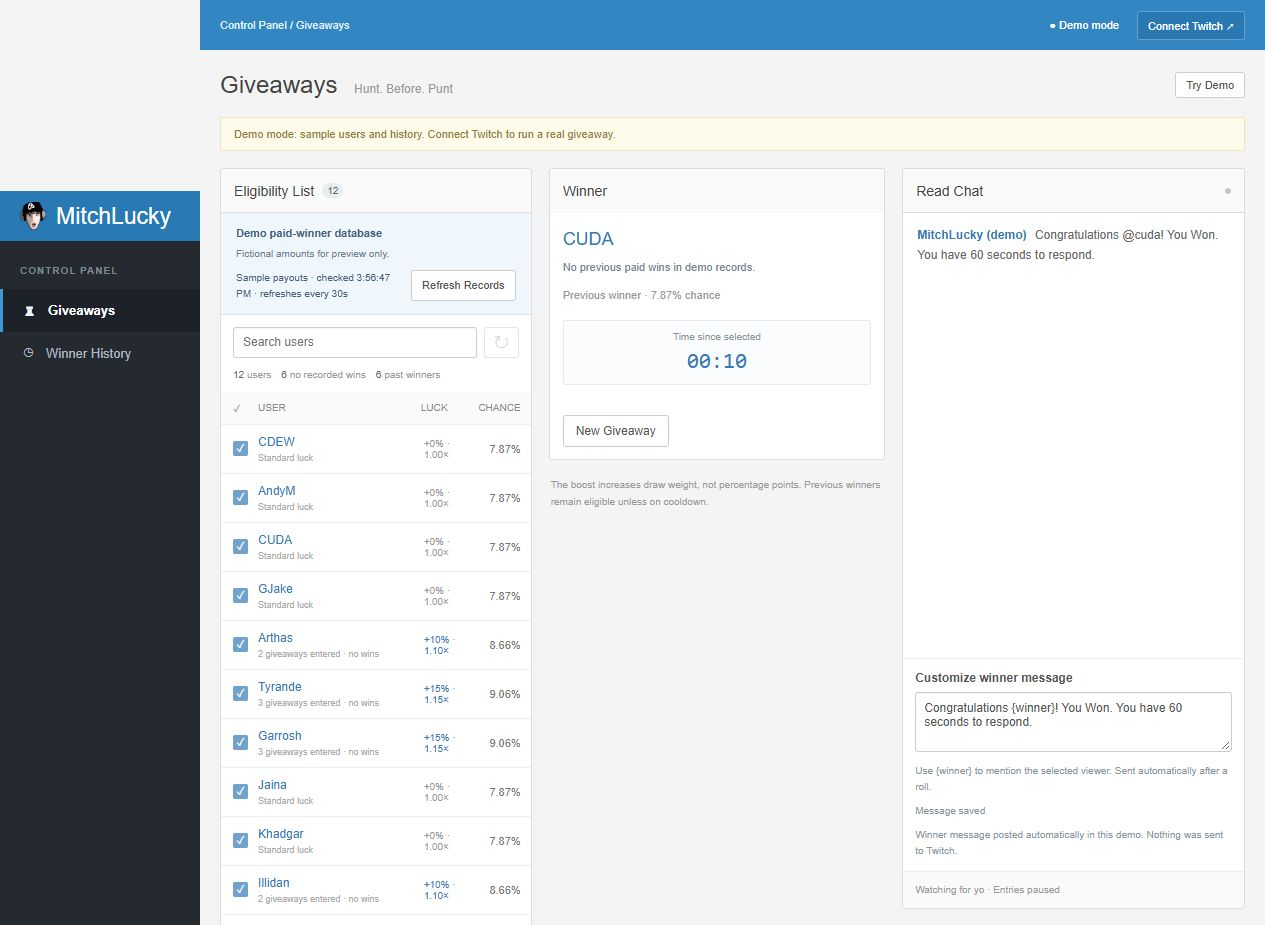
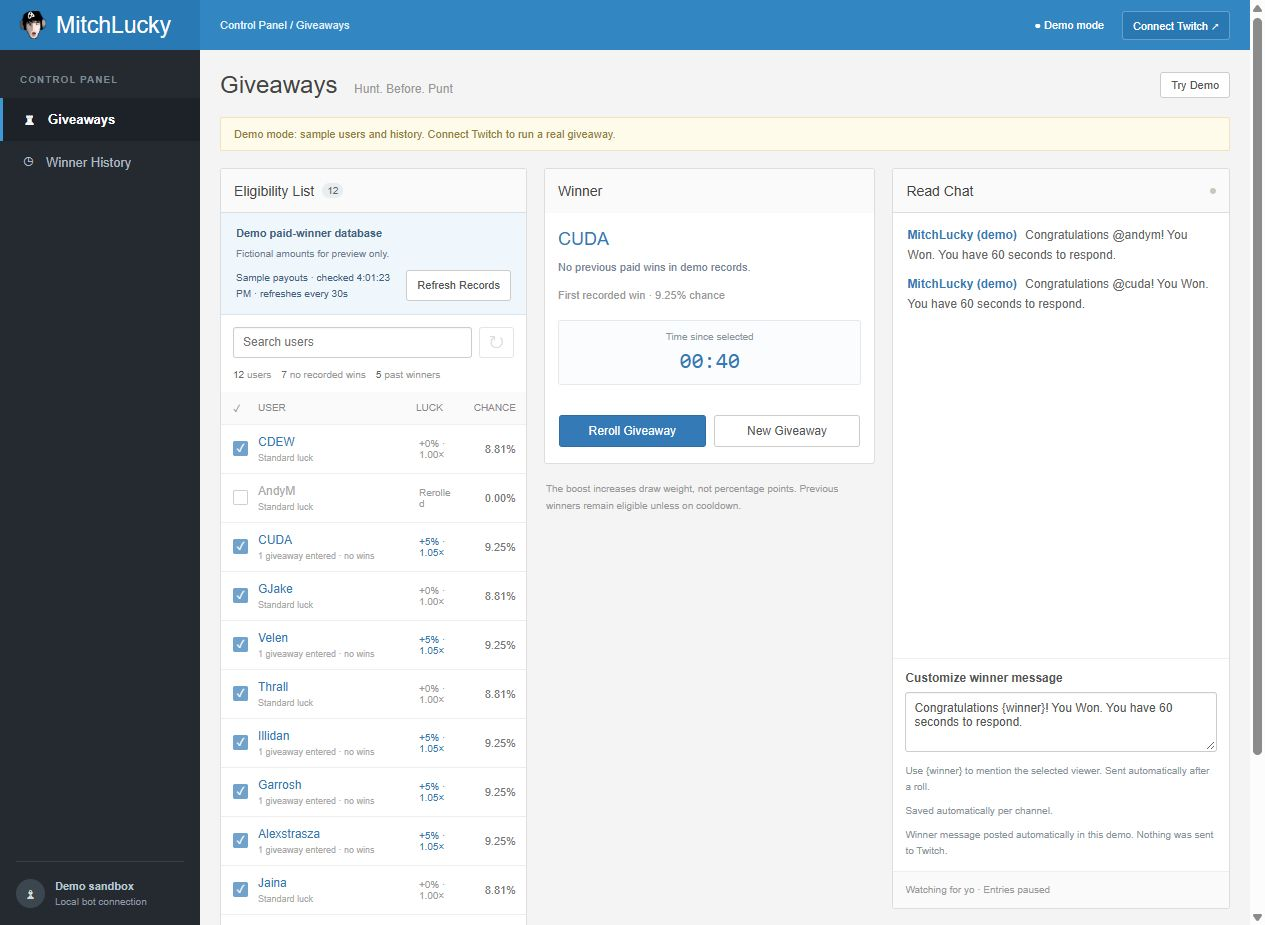
Reroll winners from the existing giveaway pool

diff --git a/public/app.js b/public/app.js
@@ -69,7 +69,10 @@ function render(next) {
   $('close').hidden = round.status !== 'open'; $('draw').hidden = !['open', 'closed'].includes(round.status); $('draw').disabled = rolling || !round.entrants.some(e => e.weight > 0);
   $('new').hidden = !['drawn', 'closed'].includes(round.status);
   document.querySelector('.giveaway-card').hidden = round.status === 'drawn';
-  (round.status === 'drawn' ? document.querySelector('.winner-card') : document.querySelector('.giveaway-actions')).appendChild($('new'));
+  (round.status === 'drawn' ? $('winner-actions') : document.querySelector('.giveaway-actions')).appendChild($('new'));
+  $('reroll').hidden = round.status !== 'drawn';
+  $('reroll').disabled = rolling || !round.entrants.some(e => e.weight > 0 && e.login !== round.winner?.login && !(e.userId && e.userId === round.winner?.userId));
+  $('reroll').title = $('reroll').disabled ? 'No other eligible entrants remain, or a roll is in progress.' : 'Choose another winner from this entry pool.';
   $('entry-count').textContent = round.entrants.length;
   $('payout-source').hidden = !demo;
   $('payout-status').textContent = demo ? 'Sample payouts · checked ' + new Date(state.payouts.checkedAt).toLocaleTimeString() + ' · refreshes every 30s' : '';
@@ -90,7 +93,7 @@ function render(next) {
   if ($('reset-eligibility')) $('reset-eligibility').disabled = !['open', 'closed'].includes(round.status);
   $('history-count').textContent = history.length;
   $('history-empty').hidden = history.length > 0;
-  $('history-rows').innerHTML = [...history].reverse().slice(0, 100).map(h => `<tr><td class="viewer">${escapeHtml(h.displayName)}</td><td>${escapeHtml(h.title)}</td><td>${escapeHtml(new Date(h.at).toLocaleString([], { month: 'short', day: 'numeric', hour: 'numeric', minute: '2-digit' }))}</td><td><span class="weight ${h.imported || !h.firstWin ? 'normal' : ''}">${h.imported ? 'Imported winner' : h.firstWin ? '✧ First win' : 'Returning winner'}</span></td></tr>`).join('');
+  $('history-rows').innerHTML = [...history].reverse().slice(0, 100).map(h => `<tr><td class="viewer">${escapeHtml(h.displayName)}</td><td>${escapeHtml(h.title)}</td><td>${escapeHtml(new Date(h.at).toLocaleString([], { month: 'short', day: 'numeric', hour: 'numeric', minute: '2-digit' }))}</td><td><span class="weight ${h.rerolled || h.imported || !h.firstWin ? 'normal' : ''}">${h.rerolled ? 'Rerolled' : h.imported ? 'Imported winner' : h.firstWin ? '✧ First win' : 'Returning winner'}</span></td></tr>`).join('');
   window.renderGiveawayUI?.(state);
 }
 function renderEntrants() {
@@ -101,7 +104,7 @@ function renderEntrants() {
   const total = preview.reduce((sum, e) => sum + e.weight, 0);
   const entrants = preview.map(e => ({ ...e, odds: total ? e.weight / total : 0 })).filter(e => `${e.login} ${e.displayName}`.toLowerCase().includes(query));
   $('empty').hidden = state.round.entrants.length > 0;
-  $('entrants').innerHTML = entrants.slice(0, 500).map(e => `<tr class="${e.blocked ? 'ineligible' : ''}"><td><button class="eligibility-check ${e.blocked ? '' : 'checked'}" data-remove="${escapeHtml(e.login)}" ${['open', 'closed'].includes(state.round.status) ? '' : 'disabled'} aria-label="${e.excluded ? 'Include' : 'Exclude'} ${escapeHtml(e.login)}" aria-pressed="${!e.blocked}">${e.blocked ? '' : '✓'}</button></td><td class="viewer" title="${e.wins ? 'Standard luck' : 'No recorded wins'}">${escapeHtml(e.displayName)}<small>${e.wins ? 'Standard luck' : `${e.luckEntries || 1} giveaway${e.luckEntries === 1 || !e.luckEntries ? '' : 's'} entered · no wins`}</small></td><td><span class="weight ${e.wins || e.blocked ? 'normal' : ''}" title="${e.wins ? 'Previous winner: standard weight' : `+5% per giveaway entered, capped at +${cap}%`}">${e.blocked ? escapeHtml(e.reason) : `+${e.bonus}% · ${(e.weight / 100).toFixed(2)}×`}</span></td><td>${pct(e.odds)}</td></tr>`).join('');
+  $('entrants').innerHTML = entrants.slice(0, 500).map(e => `<tr class="${e.blocked ? 'ineligible' : ''}"><td><button class="eligibility-check ${e.blocked ? '' : 'checked'}" data-remove="${escapeHtml(e.login)}" ${['open', 'closed'].includes(state.round.status) ? '' : 'disabled'} aria-label="${e.excluded ? 'Include' : 'Exclude'} ${escapeHtml(e.login)}" aria-pressed="${!e.blocked}">${e.blocked ? '' : '✓'}</button></td><td class="viewer" title="${e.wins ? 'Standard luck' : 'No recorded wins'}">${escapeHtml(e.displayName)}<small>${e.wins ? 'Standard luck' : `${e.luckEntries || 1} giveaway${e.luckEntries === 1 || !e.luckEntries ? '' : 's'} entered · no wins`}</small></td><td><span class="weight ${e.wins || e.blocked ? 'normal' : ''}" title="${e.wins ? 'Previous winner: standard weight' : `+5% per giveaway entered, capped at +${cap}%`}">${e.blocked ? escapeHtml(e.reason === 'Previously selected' ? 'Rerolled' : e.reason) : `+${e.bonus}% · ${(e.weight / 100).toFixed(2)}×`}</span></td><td>${pct(e.odds)}</td></tr>`).join('');
   $('pool-footer').textContent = `${entrants.length > 500 ? `Showing 500 of ${entrants.length} matching viewers. ` : ''}Exact chances update as viewers join. ${state.round.entrants.filter(e => e.blocked).length} ineligible.`;
 }
 for (const key of ['title', 'keyword', 'cooldownMinutes']) $(key).addEventListener('input', () => { dirty = true; document.querySelector('.keyword-row p').textContent = `Type ${$('keyword').value} in chat to enter. Not case-sensitive.`; });
@@ -129,7 +132,13 @@ $('draw').onclick = async () => {
   const ok = await api('draw', { roundId: state.round.id, boost: Number($('boost').value), winnerMessageTemplate: $('winner-message').value });
   if (ok) { templateDirty = false; clearTimeout(messageSaveTimer); $('message-save-status').textContent = 'Message saved'; }
   rolling = false;
-  if (!ok) render(state);
+  render(state);
+};
+$('reroll').onclick = async () => {
+  if (rolling || !state.round.winner) return;
+  rolling = true; $('reroll').disabled = true;
+  await api('reroll', { roundId: state.round.id, winnerId: state.round.winner.id, winnerMessageTemplate: $('winner-message').value });
+  rolling = false; render(state);
 };
 $('new').onclick = () => { if (state.round.entrants.length && !state.round.winner && !confirm('Clear this entry pool and start a new giveaway?')) return; api('new'); };
 $('demo').onclick = () => { if (state?.round.entrants.length && !confirm('Switch to the demo sandbox? This clears the current entry pool. Winner history is preserved.')) return; api('demo'); };

diff --git a/public/index.html b/public/index.html
@@ -7,7 +7,7 @@
 <div class="dashboard-grid">
 <section class="card entrants-card"><div class="card-header"><h2>Eligibility List <span id="entry-count" class="count">0</span></h2></div><div id="payout-source" class="payout-source" hidden><strong>Demo paid-winner database</strong><p>Fictional amounts for preview only.</p><div class="payout-source-actions"><span id="payout-status" role="status"></span><button id="payout-refresh" class="button secondary small" type="button">Refresh Records</button></div></div><div class="eligibility-toolbar"><input id="search" placeholder="Search users" aria-label="Search viewers" class="search"></div><div class="pool-summary"><span><strong id="stat-total">0</strong> users</span><span><strong id="stat-new">0</strong> no recorded wins</span><span><strong id="stat-returning">0</strong> past winners</span><span id="stat-new-caption" hidden></span></div><div class="table-scroll"><table><thead><tr><th aria-label="Eligible">✓</th><th>USER</th><th>LUCK</th><th>CHANCE</th></tr></thead><tbody id="entrants"></tbody></table></div><div id="empty" class="empty"><strong>No eligible users</strong><p>Open entries to start collecting viewers.</p></div><div id="pool-footer" class="card-footer">One entry per user.</div></section>
 <div class="giveaway-column"><section class="card giveaway-card"><div class="card-header"><h2>Giveaway</h2><span id="round-status" class="pill">Ready to start</span></div><form id="settings"><label class="giveaway-name">Giveaway Name<input id="title" maxlength="100" value="Community giveaway" required></label><div class="keyword-row"><label>Keyword<input id="keyword" maxlength="30" value="yo" required></label><p>Type yo, YO, or Yo to enter. Matching ignores capitalization.</p></div><div class="luck-panel"><h3>Extra Luck</h3><div class="luck-heading"><div><strong>First-win luck cap</strong><p>+5% per giveaway entered until their first win.</p></div><span id="boost-badge" class="boost-badge">+25%</span></div><div class="range-row"><input id="boost" type="range" min="0" max="50" step="5" value="25" aria-label="First-win luck cap"><span id="boost-value">1.25×</span></div><div class="range-labels"><span>1×</span><span>1.5×</span></div><p id="luck-status" class="luck-status" role="status">Adjust anytime — luck applies automatically.</p><p class="tracking-note">Entries and wins are remembered across giveaways and restarts. Reopening entries adds no bonus.</p><p class="explanation" id="weight-explanation">Never-winners earn +5% draw weight per giveaway entered, capped at +25%.</p></div><details class="cooldown-options"><summary>Optional winner cooldown</summary><div class="cooldown-row"><div><strong>Winner Cooldown</strong><small>Exclude anyone who won within</small></div><select id="cooldownMinutes" aria-label="Winner cooldown time frame"><option value="0">Disabled</option><option value="15">15 minutes</option><option value="30">30 minutes</option><option value="60">1 hour</option><option value="360">6 hours</option><option value="1440">24 hours</option><option value="4320">3 days</option><option value="10080">7 days</option><option value="43200">30 days</option></select></div></details><div class="giveaway-actions"><button type="submit" id="save-settings" class="button secondary">Save</button><button type="button" id="open" class="button primary">Open Entries</button><button type="button" id="close" class="button secondary" hidden>Close Entries</button><button type="button" id="draw" class="button primary" hidden>Roll It!</button><button type="button" id="new" class="button secondary" hidden>New Giveaway</button></div></form><div class="card-footer">One increase per giveaway entered. Repeated messages add no luck. Viewers: type !luck in chat (Read + Write required).</div></section>
-<section class="card winner-card"><div class="card-header"><h2>Winner</h2></div><div id="winner" class="winner-body"><p>No winner selected.</p></div></section><p class="fair-note">The boost increases draw weight, not percentage points. Previous winners remain eligible unless on cooldown.</p></div>
+<section class="card winner-card"><div class="card-header"><h2>Winner</h2></div><div id="winner" class="winner-body"><p>No winner selected.</p></div><div id="winner-actions" class="winner-actions"><button id="reroll" type="button" class="button primary" hidden>Reroll Giveaway</button></div></section><p class="fair-note">The boost increases draw weight, not percentage points. Previous winners remain eligible unless on cooldown.</p></div>
 <section class="card chat-card"><div class="card-header"><h2>Read Chat</h2><span id="chat-dot" class="chat-dot"></span></div><div id="chat" class="chat-feed"><div class="chat-empty">Connect your Twitch channel to view chat.</div></div><section class="chat-composer"><label for="winner-message">Customize winner message</label><textarea id="winner-message" rows="3" maxlength="425" aria-label="Customize winner message">Congratulations {winner}! You Won. You have 60 seconds to respond.</textarea><p class="help">Use {winner} to mention the selected viewer. Sent automatically after a roll.</p><p id="message-save-status" class="help" role="status">Saved automatically per channel.</p><p id="announcement-delivery" class="help" role="status"></p></section><div class="card-footer" id="chat-footer">Watching for yo</div></section>
 </div>
 <section id="history" class="card history-card" hidden><div class="card-header"><h2>Winner History <span id="history-count" class="count">0</span></h2><button id="export" class="button secondary small">Export History</button></div><div class="table-scroll"><table><thead><tr><th>WINNER</th><th>GIVEAWAY</th><th>WHEN</th><th>RESULT</th></tr></thead><tbody id="history-rows"></tbody></table></div><div id="history-empty" class="empty compact">No winners yet. Every draw saves its winner automatically.</div></section>

diff --git a/engine.js b/engine.js
@@ -53,6 +53,9 @@ function luckReply(round, history, ledger, message, paidWinners = []) {
   return `@${message.login} ${view.luckEntries || 1} giveaway(s) entered with no recorded wins: +${view.bonus}% draw weight (${(1 + view.bonus / 100).toFixed(2)}x; cap +${round.boost}%). Current chance: ${total ? (view.weight / total * 100).toFixed(4) : '0.0000'}%. Once per giveaway; repeating the keyword adds nothing.`;
 }
 function pool(round, history, now = Date.now(), paidWinners = []) {
+  history = history.filter(h => !h.rerolled);
+  const previousNames = new Set((round.previousSelections || []).map(w => w.login));
+  const previousIds = new Set((round.previousSelections || []).map(w => w.userId).filter(Boolean));
   const paidByLogin = new Map(paidWinners.map(w => [w.login, w]));
   const cutoff = now - round.cooldownMinutes * 60000;
   const recentDraws = round.cooldownMinutes > 0 ? history.filter(h => !h.imported && Date.parse(h.at) > cutoff && Date.parse(h.at) <= now) : [];
@@ -73,9 +76,10 @@ function pool(round, history, now = Date.now(), paidWinners = []) {
     const wins = Math.max(localWins, paidWinner?.winCount || 0);
     const coolingDown = round.cooldownMinutes > 0 && (recent.has(e.login) || (e.userId && recentIds.has(e.userId)));
     const inactive = round.mode === 'active' && Date.parse(e.lastActiveAt || e.joinedAt) < (round.closedAt ? Date.parse(round.closedAt) : now) - round.activeMinutes * 60000;
-    const blocked = Boolean(e.excluded || coolingDown || inactive);
+    const previouslySelected = previousNames.has(e.login) || (e.userId && previousIds.has(e.userId));
+    const blocked = Boolean(e.excluded || previouslySelected || coolingDown || inactive);
     const bonus = wins ? 0 : luckBonus(e.luckEntries, round.boost);
-    return { ...e, wins, paidWinner, bonus, blocked, reason: e.excluded ? 'Excluded' : coolingDown ? 'Cooldown' : inactive ? 'Inactive' : '', weight: blocked ? 0 : 100 + bonus };
+    return { ...e, wins, paidWinner, bonus, blocked, reason: e.excluded ? 'Excluded' : previouslySelected ? 'Previously selected' : coolingDown ? 'Cooldown' : inactive ? 'Inactive' : '', weight: blocked ? 0 : 100 + bonus };
   });
 }
 function enter(round, login, displayName = login, userId = null, ledger = null) {
@@ -103,10 +107,24 @@ function draw(round, history, rng = randomInt, boost = round.boost, paidWinners 
   round.status = 'drawn';
   return winner;
 }
+function reroll(round, history, rng = randomInt, paidWinners = []) {
+  if (round.status !== 'drawn' || !round.winner) throw new Error('Select a winner before rerolling.');
+  const previous = round.winner;
+  const next = { ...round, status: 'closed', winner: null, previousSelections: [...(round.previousSelections || []), { login: previous.login, userId: previous.userId }] };
+  // Work on a copy so an exhausted pool leaves the current winner intact.
+  const activeHistory = history.filter(h => !h.rerolled && h.id !== previous.id);
+  const winner = draw(next, activeHistory, rng, round.boost, paidWinners);
+  previous.rerolled = true;
+  const record = history.find(h => h.id === previous.id);
+  if (record) record.rerolled = true;
+  history.push(winner);
+  Object.assign(round, next);
+  return winner;
+}
 function parseChat(line) {
   const match = line.match(/^(?:@([^ ]+) )?:([^! ]+)!\S+ PRIVMSG #([^ ]+) :([\s\S]*)$/);
   if (!match) return null;
   const tags = Object.fromEntries((match[1] || '').split(';').map(t => { const i = t.indexOf('='); return [t.slice(0, i), t.slice(i + 1)]; }));
   return { login: normalize(match[2]), channel: normalize(match[3]), text: match[4], userId: tags['user-id'] || null, displayName: tags['display-name'] || match[2] };
 }
-module.exports = { normalize, validLogin, newRound, pool, enter, draw, parseChat, permitted, matchesKeyword, winnerAnnouncement, winnerMessageTemplate, DEFAULT_WINNER_MESSAGE, chatText, trackEntry, luckBonus, luckReply };
+module.exports = { normalize, validLogin, newRound, pool, enter, draw, reroll, parseChat, permitted, matchesKeyword, winnerAnnouncement, winnerMessageTemplate, DEFAULT_WINNER_MESSAGE, chatText, trackEntry, luckBonus, luckReply };

diff --git a/server.js b/server.js
@@ -4,7 +4,7 @@ const path = require('node:path');
 const { randomInt, randomUUID } = require('node:crypto');
 const { demoPaidWinnersResponse, readDemoPaidWinners } = require('./paid-winners');
 const { WebSocket } = require('ws');
-const { normalize, validLogin, newRound, pool, enter, draw, parseChat, permitted, matchesKeyword, winnerAnnouncement, winnerMessageTemplate, DEFAULT_WINNER_MESSAGE, chatText, trackEntry, luckReply } = require('./engine');
+const { normalize, validLogin, newRound, pool, enter, draw, reroll, parseChat, permitted, matchesKeyword, winnerAnnouncement, winnerMessageTemplate, DEFAULT_WINNER_MESSAGE, chatText, trackEntry, luckReply } = require('./engine');
 const port = Number(process.env.PORT || 38741);
 const dataDir = process.env.DATA_DIR || path.join(__dirname, 'data');
 fs.mkdirSync(dataDir, { recursive: true });
@@ -47,6 +47,7 @@ function drainAnnouncements() {
   announcementTimer = null;
   while (announcementQueue.length) {
     const { winner, channel } = announcementQueue[0], delivery = winner.announcement;
+    if (delivery.status !== 'pending') { announcementQueue.shift(); continue; }
     if (channel !== state.channel || !canWriteChat()) {
       Object.assign(delivery, { status: 'not-sent', reason: channel !== state.channel ? 'The channel changed before sending.' : 'Read + Write Chat must be connected to announce winners automatically.' });
     } else {
@@ -206,12 +207,15 @@ async function action(route, body) {
     delete round.closedAt;
   } else if (route === 'close') {
     if (round.status !== 'open') throw new Error('Entries are not open.'); round.status = 'closed'; round.closedAt = new Date().toISOString();
-  } else if (route === 'draw') {
+  } else if (route === 'draw' || route === 'reroll') {
     if (body.roundId && body.roundId !== round.id) throw new Error('The giveaway changed. Review the current entry pool before rolling.');
+    if (route === 'reroll' && (body.roundId !== round.id || !round.winner || body.winnerId !== round.winner.id)) throw new Error('The selected winner changed. Review the current winner before rerolling.');
     const template = winnerMessageTemplate(body.winnerMessageTemplate === undefined ? messageTemplate() : body.winnerMessageTemplate);
     // Validate the longest allowed login before selecting, including repeated placeholders.
     winnerAnnouncement({ login: 'a'.repeat(25) }, template);
-    const winner = draw(round, history(), undefined, body.boost === undefined ? round.boost : Number(body.boost), paidWinners());
+    const previous = round.winner;
+    const winner = route === 'reroll' ? reroll(round, history(), undefined, paidWinners()) : draw(round, history(), undefined, body.boost === undefined ? round.boost : Number(body.boost), paidWinners());
+    if (route === 'reroll' && previous?.announcement?.status === 'pending') Object.assign(previous.announcement, { status: 'not-sent', reason: 'Rerolled before the announcement was sent.' });
     state.winnerMessages[state.channel] = template;
     winner.announcement = { status: 'pending', message: winnerAnnouncement(winner, template) };
     // Save the winner and delivery intent before allowing the send to run.

diff --git a/test/reroll.test.js b/test/reroll.test.js
@@ -1,0 +1,36 @@
+const { test } = require('node:test');
+const assert = require('node:assert/strict');
+const { newRound, enter, draw, reroll, pool } = require('../engine');
+
+test('rerolls keep the pool and luck progress, exclude every previous selection, and retain an audit history', () => {
+  const round = newRound(), ledger = {}, history = []; round.status = 'open';
+  for (const [i, name] of ['first', 'second', 'third'].entries()) enter(round, name, name, String(i + 1), ledger);
+  const id = round.id, entrants = JSON.stringify(round.entrants);
+  const first = draw(round, history, () => 0), closedAt = round.closedAt;
+  const second = reroll(round, history, () => 0);
+  assert.equal(second.login, 'second'); assert.notEqual(second.id, first.id);
+  assert.equal(first.rerolled, true); assert.equal(round.id, id); assert.equal(round.closedAt, closedAt);
+  assert.equal(JSON.stringify(round.entrants), entrants); assert.equal(ledger['id:1'].count, 1);
+  assert.equal(round.status, 'drawn'); assert.equal(enter(round, 'late'), false);
+  assert.equal(pool(round, history)[0].reason, 'Previously selected');
+  const third = reroll(round, history, () => 0); assert.equal(third.login, 'third');
+  const before = JSON.stringify({ round, history });
+  assert.throws(() => reroll(round, history), /No eligible/);
+  assert.equal(JSON.stringify({ round, history }), before);
+  const next = newRound(); next.status = 'open'; enter(next, 'first', 'first', '1', ledger);
+  assert.equal(pool(next, history)[0].wins, 0); assert.equal(pool(next, history)[0].weight, 110);
+});
+
+test('reroll honors identity exclusions, manual exclusions, and the original activity cutoff', () => {
+  const round = newRound(), history = []; round.status = 'open';
+  for (const [i, name] of ['first', 'second', 'third'].entries()) enter(round, name, name, String(i + 1));
+  round.mode = 'active'; round.activeMinutes = 5;
+  round.entrants[2].excluded = true;
+  draw(round, history, () => 0);
+  round.entrants[0].login = 'renamed';
+  // The second viewer was active at the initial cutoff but not at the reroll time.
+  round.entrants[1].lastActiveAt = new Date(Date.parse(round.closedAt) - 299999).toISOString();
+  assert.equal(reroll(round, history, () => 0).login, 'second');
+  assert.throws(() => reroll(round, history), /No eligible/);
+  const fresh = newRound(); assert.throws(() => reroll(fresh, []), /Select a winner/);
+});

diff --git a/test/announcements.test.js b/test/announcements.test.js
@@ -43,6 +43,16 @@ test('announcements send automatically once, respect rate limits, persist settin
   await post('demo'); await post('draw'); s = await delivered();
   assert.equal(s.round.winner.announcement.status, 'demo'); assert.equal(s.chat.length, 1);
   assert.equal(s.chat[0].text, `GG @${s.round.winner.login}! You won.`);
+  const previousWinner = s.round.winner, roundId = s.round.id;
+  const progress = s.round.entrants.map(e => e.luckEntries);
+  const rerolled = await post('reroll', { roundId, winnerId: previousWinner.id });
+  assert.equal(rerolled.status, 200); assert.equal(rerolled.body.round.id, roundId);
+  assert.notEqual(rerolled.body.round.winner.login, previousWinner.login);
+  assert.deepEqual(rerolled.body.round.entrants.map(e => e.luckEntries), progress);
+  assert.equal(rerolled.body.history.find(w => w.id === previousWinner.id).rerolled, true);
+  assert.equal((await post('reroll', { roundId, winnerId: previousWinner.id })).status, 400);
+  s = await delivered(); assert.equal(s.chat.length, 2);
+  assert.equal(s.chat.at(-1).text, `GG @${s.round.winner.login}! You won.`);
   const sentAt = s.round.winner.announcement.sentAt;
   await stop(); await start(); s = await snapshot();
   assert.equal(s.winnerMessageTemplate, 'GG {winner}! You won.');

diff --git a/public/giveaway.css b/public/giveaway.css
@@ -9,6 +9,8 @@
 .winner-body .paid-winner-tag{font-size:12px;margin:5px 0 4px;padding:4px 8px}
 .winner-body .paid-winner-total{display:block;font-size:13px;color:#855600;line-height:1.8;margin-bottom:10px}
 .winner-body .paid-winner-empty{font-size:11px;color:#738596;margin:8px 0}
+.winner-actions{display:flex;gap:8px;flex-wrap:wrap;padding:0 14px 16px}
+.winner-actions .button{flex:1;white-space:nowrap}
 .payout-source{padding:12px 15px;background:#f0f7fc;border-bottom:1px solid #d9e6ef;font-size:11px;color:#41627c;line-height:1.6}
 .payout-source p{margin:3px 0 8px;font-size:10px;color:#6c8091}
 .payout-source-actions{display:flex;gap:8px;align-items:center;justify-content:space-between;flex-wrap:wrap}

diff --git a/README.md b/README.md
@@ -14,6 +14,7 @@ A local Twitch giveaway dashboard inspired by Nightbot, with a gradual, capped l
 | One entry per viewer | Repeated messages add neither entries nor luck. Twitch user IDs prevent duplicate entries under renamed accounts when available. |
 | Gradual first-win luck | Never-winners earn +5% draw weight per giveaway they enter, capped at +25% by default. |
 | Live luck slider | Adjust the maximum bonus from 0% to 50% while entries are open or paused. Chances preview while dragging; the cap saves on release. |
+| Reroll without resetting | Select another winner from the same entry pool, skipping viewers already selected in that giveaway. |
 | Direct winner selection | Click **Roll It!** while entries are open. One action stops entries and selects a winner using the displayed cap. |
 | Eligibility controls | Everyone, Subscribers + Mods, Moderators, or Broadcaster. Exclude individual viewers or reset eligibility. |
 | Active User mode | Collect viewers who chat during a configurable 1–60 minute activity window. |
@@ -104,7 +105,7 @@ Draws use Node's cryptographically secure random generator. Participation progre
 2. Choose **Read Chat Only** or **Read + Write Chat**.
 3. For authenticated access, provide a Twitch user OAuth token with `chat:read`. Writing also requires `chat:edit` and explicitly selecting Read + Write Chat.
 4. Save giveaway rules, open entries, and let viewers enter. Click **Roll It!** when ready; closing first is optional.
-5. Use **New Giveaway** for another draw. Other entry rules stay locked once entries open; the luck cap remains adjustable.
+5. Use **Reroll Giveaway** to pick someone else from the same pool, or **New Giveaway** to collect fresh entries. Other entry rules stay locked once entries open; the luck cap remains adjustable.
 
 Tokens are validated with Twitch, kept in server memory, and never saved. Anonymous read-only IRC is supported but may be restricted by Twitch. Authenticated live Twitch behavior still needs verification with your user token.
 
@@ -116,7 +117,7 @@ Announcements respect the chat send rate limit and are sent once per selection. 
 
 With writing enabled, viewers can type `!luck` to check their participation, weight bonus, and current odds without entering the giveaway. Replies share the chat send rate limit; winner announcements take priority and rapid luck requests may not all receive replies. `!luck` is reserved for this command.
 
-The timer starts when a winner is selected, continues across reloads and restarts, and never resets because someone speaks. There is no automatic timeout or reroll. A completed draw cannot be rolled again. Once a winner is shown, **New Giveaway** is the only control on the winner card.
+The timer starts when a winner is selected, continues across reloads and restarts, and never resets because someone speaks. There is no automatic timeout or reroll. Once a winner is shown, choose **Reroll Giveaway** or **New Giveaway**. Reroll keeps the pool, keyword, eligibility exclusions, luck cap, participation progress, and original activity cutoff; it does not reopen entries. Viewers already selected in that giveaway are skipped. The new winner gets a fresh timer and automatic announcement. Superseded selections stay in history as **Rerolled** and do not count as local wins or start a local winner cooldown. Existing paid-winner records remain unchanged. If nobody else is eligible, the current winner stays selected and reroll is unavailable.
 
 ## Real paid-winners database: next integration
 
